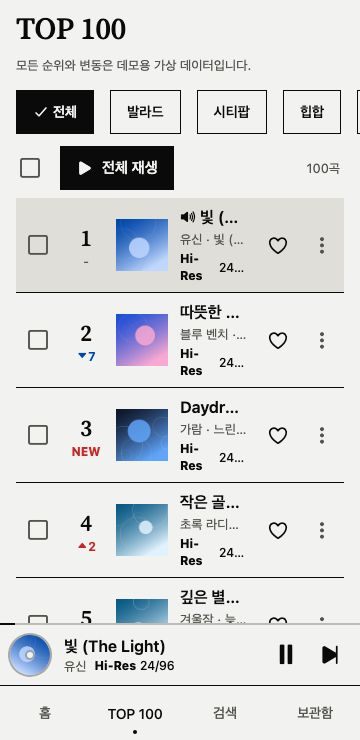
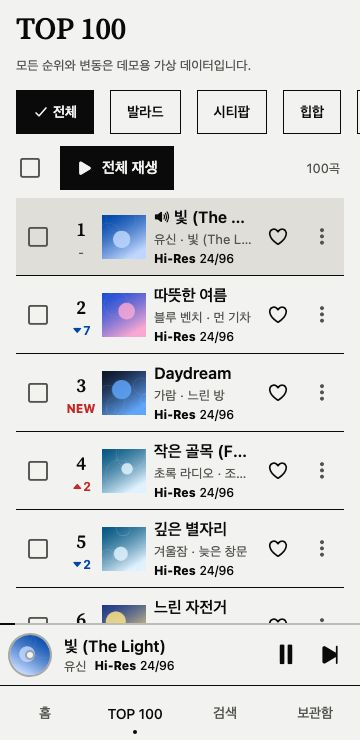
좁은 화면의 곡 목록 글자 자리를 넓히고 동작 줄이기 변경을 따릅니다
재생 중에 동작 줄이기를 켜면 디스크 회전을 멈춥니다.
플레이어 테마 설명과 README 스크린샷도 새 화면에 맞춥니다.

diff --git a/src/entities/music/ui/TrackRow.tsx b/src/entities/music/ui/TrackRow.tsx
@@ -1,8 +1,9 @@
 import { Ionicons } from '@expo/vector-icons';
 import type { ReactNode } from 'react';
-import { Pressable, View } from 'react-native';
+import { Pressable, View, useWindowDimensions } from 'react-native';
 import { StyleSheet, useUnistyles } from 'react-native-unistyles';
 
+import { WIDE_LAYOUT_MIN_WIDTH } from '@/shared/config';
 import { AlbumArt, AppText, VisuallyHidden } from '@/shared/ui';
 
 import { artistLine, displayTitle } from '../model/format';
@@ -25,6 +26,7 @@ type Props = {
 
 export function TrackRow({ track, rank, active = false, onPress, leading, trailing, showArt = true, listItem = false }: Props) {
   const { theme } = useUnistyles();
+  const { width } = useWindowDimensions();
   const title = displayTitle(track);
   const artists = artistLine(track);
   return (
@@ -42,7 +44,7 @@ export function TrackRow({ track, rank, active = false, onPress, leading, traili
         onPress={onPress}
         style={({ pressed }) => [styles.main, pressed && styles.pressed]}
       >
-        {showArt && <AlbumArt uri={track.artUri} size={52} />}
+        {showArt && <AlbumArt uri={track.artUri} size={width < WIDE_LAYOUT_MIN_WIDTH ? 44 : 52} />}
         <View style={styles.text}>
           <View style={styles.titleRow}>
             {/* 색만으로 구분하지 않도록 재생 중 표시를 함께 보여 줍니다. */}
@@ -62,9 +64,10 @@ export function TrackRow({ track, rank, active = false, onPress, leading, traili
 const styles = StyleSheet.create((theme) => ({
   row: { flexDirection: 'row', alignItems: 'center', minHeight: 72, marginHorizontal: theme.spacing.lg, gap: theme.spacing.xs, borderBottomWidth: 1, borderBottomColor: theme.colors.rule },
   rowActive: { backgroundColor: theme.colors.primaryMuted },
-  rankBox: { width: 44, alignItems: 'center' },
-  rank: { textAlign: 'center' },
-  main: { flex: 1, minWidth: 0, flexDirection: 'row', alignItems: 'center', gap: theme.spacing.md, paddingVertical: theme.spacing.sm, paddingHorizontal: theme.spacing.xs },
+  rankBox: { width: { xs: 34, md: 44 }, alignItems: 'center' },
+  // 좁은 칸에서도 세 자리 순위가 넘치지 않게 합니다.
+  rank: { textAlign: 'center', fontSize: { xs: 20, md: 24 } },
+  main: { flex: 1, minWidth: 0, flexDirection: 'row', alignItems: 'center', gap: { xs: theme.spacing.sm, md: theme.spacing.md }, paddingVertical: theme.spacing.sm, paddingHorizontal: { xs: 0, md: theme.spacing.xs } },
   text: { flex: 1, minWidth: 0, gap: 2 },
   titleRow: { flexDirection: 'row', alignItems: 'center', gap: theme.spacing.xs },
   title: { flexShrink: 1 },

diff --git a/src/shared/ui/Disc.test.tsx b/src/shared/ui/Disc.test.tsx
@@ -1,4 +1,6 @@
-import { render, screen } from '@testing-library/react-native';
+import { act, render, screen } from '@testing-library/react-native';
+import { AccessibilityInfo } from 'react-native';
+import { withRepeat } from 'react-native-reanimated';
 
 import { Disc } from './Disc';
 
@@ -11,5 +13,24 @@ describe('Disc', () => {
   it('꾸밈 이미지는 보조 기술에서 숨깁니다', async () => {
     await render(<Disc size={120} />);
     expect(screen.getByTestId('disc', { includeHiddenElements: true }).props['aria-hidden']).toBe(true);
+  });
+
+  it('재생 중에 동작 줄이기를 켜면 회전을 다시 시작하지 않습니다', async () => {
+    let notify: (enabled: boolean) => void = () => undefined;
+    jest.spyOn(AccessibilityInfo, 'isReduceMotionEnabled').mockResolvedValue(false);
+    jest.spyOn(AccessibilityInfo, 'addEventListener').mockImplementation(((_event: string, handler: (enabled: boolean) => void) => {
+      notify = handler;
+      return { remove: jest.fn() };
+    }) as never);
+    jest.mocked(withRepeat).mockClear();
+
+    await render(<Disc size={120} spinning />);
+    expect(withRepeat).toHaveBeenCalledTimes(1);
+
+    await act(async () => notify(true));
+    expect(withRepeat).toHaveBeenCalledTimes(1);
+
+    await act(async () => notify(false));
+    expect(withRepeat).toHaveBeenCalledTimes(2);
   });
 });

diff --git a/src/shared/ui/Disc.tsx b/src/shared/ui/Disc.tsx
@@ -1,7 +1,7 @@
 import { Ionicons } from '@expo/vector-icons';
 import { Image } from 'expo-image';
-import { useEffect } from 'react';
-import { View } from 'react-native';
+import { useEffect, useState } from 'react';
+import { AccessibilityInfo, View } from 'react-native';
 import Animated, {
   cancelAnimation,
   Easing,
@@ -27,10 +27,28 @@ type Props = {
 
 const SPIN_MS = 9000;
 
+/** Reanimated의 값은 앱을 켤 때 정해져, 재생 중에 바꾼 동작 줄이기 설정도 따르도록 구독합니다. */
+function useLiveReducedMotion() {
+  const initial = useReducedMotion();
+  const [reduced, setReduced] = useState(initial);
+  useEffect(() => {
+    let alive = true;
+    void AccessibilityInfo.isReduceMotionEnabled().then((value) => {
+      if (alive) setReduced(value);
+    });
+    const subscription = AccessibilityInfo.addEventListener('reduceMotionChanged', setReduced);
+    return () => {
+      alive = false;
+      subscription.remove();
+    };
+  }, []);
+  return reduced;
+}
+
 /** 앨범 아트를 입힌 디스크입니다. */
 export function Disc({ uri, size, label, spinning = false, tilted = false }: Props) {
   const { theme } = useUnistyles();
-  const reduceMotion = useReducedMotion();
+  const reduceMotion = useLiveReducedMotion();
   const angle = useSharedValue(0);
 
   useEffect(() => {

diff --git a/src/entities/music/ui/QualityBadge.tsx b/src/entities/music/ui/QualityBadge.tsx
@@ -18,7 +18,7 @@ export function QualityBadge({ format, onStage = false, compact = false, raised 
   const [grade, detail] = compact ? [short.split(' ')[0], short.split(' ')[1]] : [isHiRes(format) ? 'Hi-Res' : '', formatQuality(format)];
   return (
     <View style={[styles.badge, raised && styles.badgeRaised, onStage && styles.badgeStage]}>
-      {grade ? <Text style={[styles.grade, onStage && styles.textStage]}>{grade}</Text> : null}
+      {grade ? <Text numberOfLines={1} style={[styles.grade, onStage && styles.textStage]}>{grade}</Text> : null}
       <Text numberOfLines={1} style={[styles.text, onStage && styles.textStage]}>{detail}</Text>
     </View>
   );
@@ -33,7 +33,7 @@ const styles = StyleSheet.create((theme) => ({
   },
   badgeRaised: {},
   badgeStage: {},
-  grade: { color: theme.colors.primary, fontSize: 12, lineHeight: 17, fontWeight: '800' },
+  grade: { flexShrink: 0, color: theme.colors.primary, fontSize: 12, lineHeight: 17, fontWeight: '800' },
   text: { color: theme.colors.text, fontSize: 12, lineHeight: 17, fontWeight: '500' },
   textStage: { color: theme.colors.stage.text },
 }));

diff --git a/jest.setup.ts b/jest.setup.ts
@@ -13,7 +13,7 @@ jest.mock('react-native-reanimated', () => {
     useAnimatedStyle: () => ({}),
     useReducedMotion: () => false,
     useSharedValue: (value: number) => ({ get: () => value, set: jest.fn() }),
-    withRepeat: (animation: unknown) => animation,
+    withRepeat: jest.fn((animation: unknown) => animation),
     withTiming: (value: unknown) => value,
   };
 });
